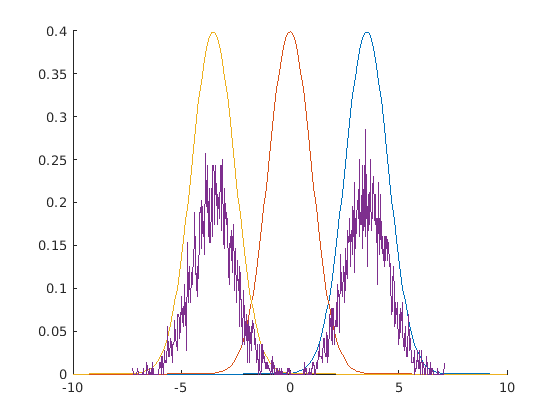
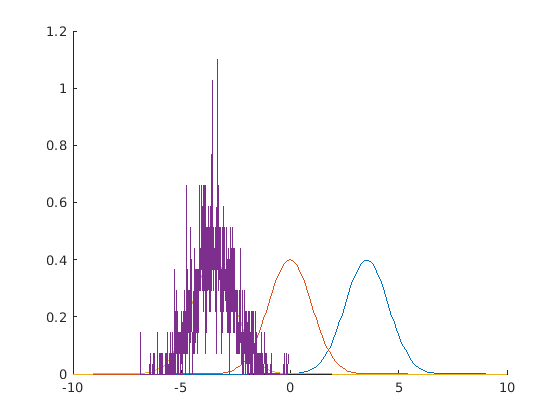
Finish draft a

diff --git a/p2/a.tex b/p2/a.tex
@@ -19,7 +19,7 @@
 % make the title area
 \maketitle
 \begin{abstract}
-This practical will be based on applying ML to received signals
+This practical will be based on applying ML to received signals to estimate their phase
 \end{abstract}
 
 
@@ -46,10 +46,11 @@ $$\mu_x(n)=mean(Acos(2\pi f_dn+\phi))$$
 Which is a constant, thus:
 $$\mu_x(n)=Acos(2\pi f_dn+\phi)$$
 
-And given that the multi-dimensional pdf of $x$ will be a multiplication of gaussian pdfs (since each $x(n)$ has a gaussian pdf), which is the expression provided in (1.3), we can derive that the multi-dimensional pdf that we are searching for will have the shape of (1.3) with $$\mu_x(n)=Acos(2\pi f_dn+\phi)$$.
+And given that the multi-dimensional pdf of $x$ will be a multiplication of gaussian pdfs (since each $x(n)$ has a gaussian pdf), which is the expression provided in (1.3), we can derive that the multi-dimensional pdf that we are searching for will have the shape of (1.3) with
+$$\mu_x(n)=Acos(2\pi f_dn+\phi)$$
 
 \subsection{Question 3}
-Given that $N=1$ we will only deal with a single pdf, and following the discussion provided on question 2 we can ascertain that the pdf of $x(0)$ will be a gaussian\footnote{This is because the pdf would be the result of multiplying 1 guassians, thus a single guassian} with mean $\mu = Acos(2\pi f_d 0+\phi)=Acos(\phi)$ and standard deviation $\sigma=1$.
+Given that $N=1$ we will only deal with a single pdf, and following the discussion provided on question 2 we can ascertain that the pdf of $x(0)$ will be a gaussian\footnote{This is because the pdf would be the result of multiplying 1 gaussians, thus a single gaussian} with mean $\mu = Acos(2\pi f_d 0+\phi)=Acos(\phi)$ and standard deviation $\sigma=1$.
 
 Therefore, we can directly graph these functions by computing their values:
 
@@ -75,7 +76,7 @@ Therefore, we can directly graph these functions by computing their values:
 \subsection{Question 4}
 
 \begin{verbatim}
-  r=RxSignal(:,1);
+  r=RxSignal(1,:);
   d=500;
   [h, x]=hist(r,d);
   lr=length(r);
@@ -84,14 +85,53 @@ Therefore, we can directly graph these functions by computing their values:
 \end{verbatim}
 \includegraphics[scale=0.6]{4}
 
+We can appreciate that the pdf that fits better our experimental data is the one associated with $\phi=\frac{3\pi}{4}$, which will be our estimation.
+
 \subsection{Question 5}
 We are taking samples in the space domain because we want all the samples to belong to the same pdf for easy matching. If we took the samples at different times each sample would have a different pdf associated with them and thus the method we applied here wouldn't work.
 
 To be able to treat space and time indistictly as domains, the pdfs of the values at different times would need to be the same.
 \subsection{Question 6}
+Following the instructions:
+\begin{verbatim}
+  x=0:0.1:2*pi;
+  y = (1/(sigma*sqrt(2*pi))).*exp(
+    -((RxSignal(1,1)-5*cos(x)).^2)/(2*sigma^2));
+  plot(x,y);
+\end{verbatim}
+
+\includegraphics[scale=0.6]{6}
+
+An explanation for why we are seeing two peaks on this graph can be found on the answer to question 7.
 
 \subsection{Question 7}
+We will estimate $\phi$ by finding the value on the x axis where the likelihood function has a maximum:
+\begin{verbatim}
+  find(y==max(y))
+\end{verbatim}
 
+The estimation from our single sample is $3.5$, but this estimation is prone to error since it uses a single sample. Note that we must consider that the value we are using in our likelihood function is $cos(\phi)$, so if the maximum is on 3.5 this would mean that $\phi$ is either $3.5$ or $3.5-2(3.5-\pi)$ as both of these values provide the same result when applied to $cos()$.
+
+To provide a better estimation we could use all the samples on the same time-dimension (thus all the ones that share the same pdf) and calculate the ML estimate for each of them:
+
+\begin{verbatim}
+  x=0:0.1:2*pi;
+  count=zeros(length(x));
+  for i=1:length(RxSignal(1,:))
+      y = (1/(sigma*sqrt(2*pi))).*exp(-((RxSignal(1,i)-5*cos(x)).^2)/(2*sigma^2));
+      f=find(y==max(y));
+      count(f)=count(f)+1;
+  end
+  plot(x, count)
+\end{verbatim}
+
+\includegraphics[scale=0.6]{all}
+
+Here we see two peaks at $x=2.3\approx \frac{3\pi}{4}$ and $x=3.9 \approx \frac{5\pi}{4}$. These two match with the estimate $\phi=\frac{3\pi}{4}$ that we saw on question 4, as the value that we are using for our likelihood function is $cos(\phi)$ and $cos(\frac{3\pi}{4})=cos(\frac{5\pi}{4})$.
+
+On top of that we can appreciate a peak at $x=3.1$ which I don't know how to explain as of now.
+
+In any case, we can see that there are some estimations on $x=1.6$, which is really far away from the real value of $\phi$. This is the problem that estimations based on a single realization have, that if you use an atypical realization your estimate will end up skewed.
 
 \section{Conclusion}
 We managed to obtain a good estimate of the signal's phase, thus accomplishing our objectives.
